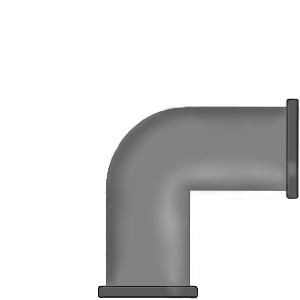
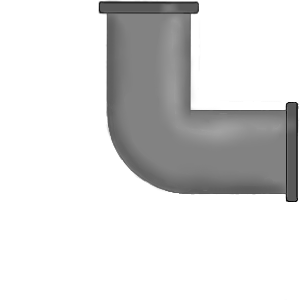
эээ трубы починены сорян

Changed region(s): [[0.3, 0.0, 1.0, 1.0]]

diff --git a/level3/level3.html b/level3/level3.html
@@ -43,13 +43,13 @@
                     <img src="images/LU.png" alt="верх-лево" class="pipe-img">
                 </button>
                 <button class="btn" data-type="UR" onclick="choosePipe('UR')">
-                    <img src="images/UR.png" alt="верх-право" class="pipe-img">
+                    <img src="images/RD.png" alt="верх-право" class="pipe-img">
                 </button>
                 <button class="btn" data-type="LD" onclick="choosePipe('LD')">
                     <img src="images/LD.png" alt="низ-лево" class="pipe-img">
                 </button>
                 <button class="btn" data-type="RD" onclick="choosePipe('RD')">
-                    <img src="images/RD.png" alt="низ-право" class="pipe-img">
+                    <img src="images/UR.png" alt="низ-право" class="pipe-img">
                 </button>
             </div>
         </div>
